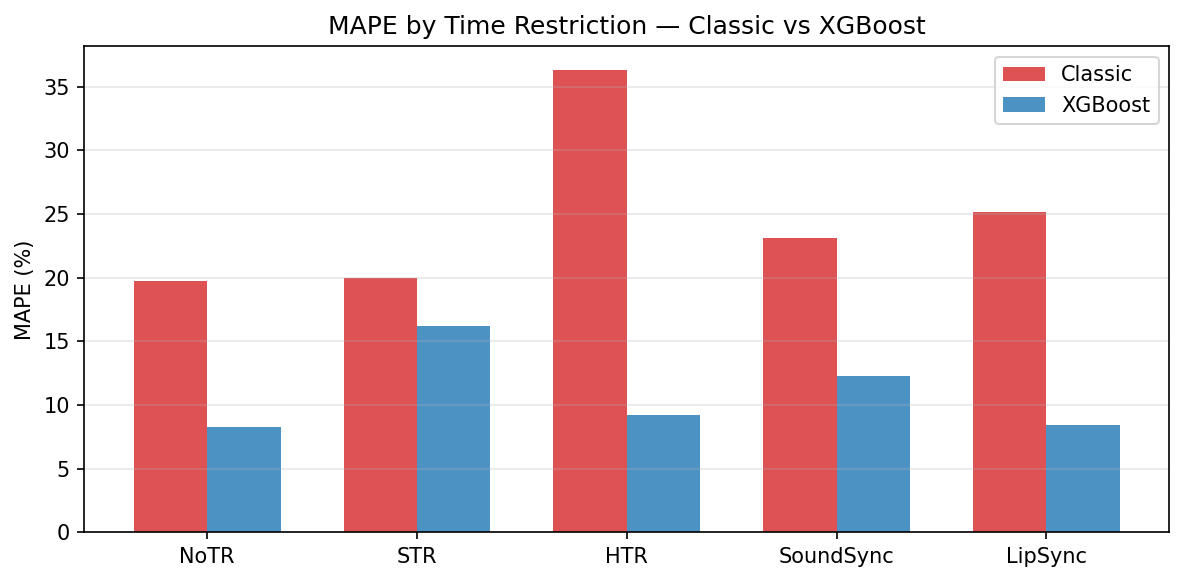
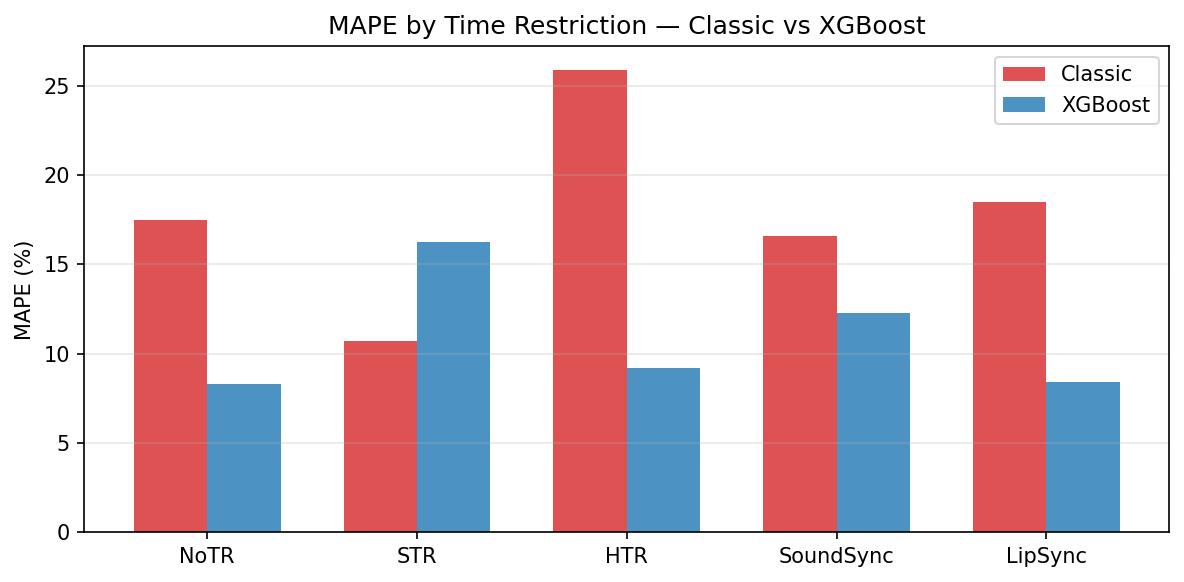
Word-based classic baseline, updated methodology narrative

diff --git a/pages/03_methodology.py b/pages/03_methodology.py
@@ -2,7 +2,7 @@
 pages/03_methodology.py — Methodology
 
 Three sections:
-1. Why filecount is a poor predictor — the business argument
+1. Why the classic method has a structural ceiling — the business argument
 2. SHAP feature importance — what the model actually learned
 3. Full training code — transparency
 """
@@ -21,23 +21,25 @@ metrics  = metadata["metrics"]
 
 st.title("🔬 Methodology")
 st.caption(
-    "How the model was built, what it learned, and why it outperforms "
-    "the traditional approach. Full training code included."
+    "How the model was built, what it learned, and where the classic "
+    "approach reaches its limits. Full training code included."
 )
 st.divider()
 
 # ─── SECTION 1: THE BUSINESS ARGUMENT ─────────────────────────────────────────
 
-st.subheader("1 — Why filecount is a poor predictor")
+st.subheader("1 — Where the classic method reaches its limits")
 
 st.markdown("""
-The traditional quoting method in VO localization multiplies **filecount × a fixed
-rate per language and time restriction**. This is auditable and fast — but it rests
-on a flawed assumption: that every file represents the same amount of recording work.
+The classic quoting method in VO localization multiplies **wordcount by a fixed
+rate per language and time restriction type**. This is a reasonable starting point —
+it accounts for script volume, language market rates, and the recording complexity
+associated with each restriction type.
 
-It does not.
+Its limitation is structural: the formula treats all sessions of the same wordcount
+and TR type as equivalent, regardless of how the scope is distributed across the cast.
 
-**Words per file varies significantly by session type:**
+**Average words per file varies by session type:**
 
 | Time Restriction | Avg. Words per File |
 |---|---|
@@ -47,19 +49,28 @@ It does not.
 | STR | ~7.0 |
 | NoTR | ~8.0 |
 
-A LipSync file and a NoTR file cost the same in the traditional model — but the NoTR
-file contains almost twice the dialogue. When studios submit large NoTR sessions with
-dense scripts, the traditional method **underestimates**. When they submit LipSync
-sessions with many short, precisely timed lines, it **overestimates**.
+This variation matters less for a word-based approach than for a file-based one,
+since wordcount is already the primary input. The classic method's main blind spot
+is elsewhere: **minimum fee dynamics**.
 
-Beyond words per file, the traditional method ignores:
+When a large number of actors each cover a small portion of the script, each actor
+triggers a minimum session fee regardless of their individual scope. The per-word
+formula has no mechanism to detect this — a session with 120 actors covering 15,000
+words produces the same estimate as one with 15 actors covering the same material,
+despite the significant difference in actual cost.
 
-- **Minimum fees** — actors charge a minimum regardless of scope. Thin per-actor
-  scopes (high spread) inflate cost relative to wordcount.
-- **Cast size relative to scope** — 80 actors covering 5,000 words is a very
-  different session to 10 actors covering the same material.
+The analysis confirms this pattern. The sessions where the classic method performs
+worst are consistently NoTR sessions with large casts and high scope spread, where
+minimum fees dominate the actual billing and the per-word rate is a poor predictor
+of the final invoice.
 
-These are not edge cases. They are systematic, predictable, and correctable.
+Beyond minimum fees, the classic method also has no visibility into:
+
+- **Words per actor** — a proxy for how thin each actor's individual scope is
+- **Scope spread** — how unevenly distributed the material is across the cast
+- **Characters per actor** — relevant where one actor covers several characters
+
+These are the factors the model was trained to capture.
 """)
 
 st.divider()
@@ -71,10 +82,10 @@ st.subheader("2 — What the model learned: SHAP feature importance")
 st.markdown("""
 SHAP (SHapley Additive exPlanations) decomposes each prediction into contributions
 from individual features — showing not just *which* features matter, but *how* and
-*in which direction* they push the predicted cost.
+*in which direction* they influence the predicted cost.
 
 **How to read the chart below:**
-- Each row is one feature, ordered by importance (most impactful at the top)
+- Each row is one feature, ordered by overall importance (most impactful at top)
 - Each dot is one session from the test set
 - **X-axis**: SHAP value — how much that feature pushed the prediction up (right) or down (left)
 - **Colour**: the feature's value for that session (red = high, blue = low)
@@ -87,28 +98,31 @@ else:
     st.warning("SHAP plot not found — run models/train.py to generate it.")
 
 st.markdown("""
-**Reading the key features:**
+**Key features and what they show:**
 
-**Wordcount** (top) — red dots (large scripts) push cost strongly upward.
-The most important raw driver, as expected.
+**Wordcount** — the primary driver, consistent with both the classic method and
+domain knowledge. Large scripts (red) push cost up significantly.
 
-**Words_per_File** (second) — this is the insight the traditional method misses.
-Red dots (dense files, many words per file) push cost *up*. Blue dots (sparse files,
-few words per file) push cost *down*. The model has learned that filecount alone
-is an unreliable workload proxy.
+**Words_per_File** — sessions with fewer words per file (blue) push cost up,
+not down. This reflects the minimum fee effect: sparse files indicate thin
+per-actor scope, which increases cost per word relative to a denser session.
+The classic method cannot capture this relationship.
 
-**TR_Score** — the time restriction ordinal. High TR (LipSync = 4) pushes cost up.
-Confirms the model correctly learned the multiplier hierarchy.
+**TR_Score** — the ordinal encoding of time restriction type. Higher TR
+(LipSync = 4) pushes cost up, confirming the model has correctly learned
+the multiplier hierarchy.
 
 **Language** — high-rate languages (Japanese, Korean) push cost up; low-rate
-(Polish, LATAM) push it down. The model recovered the language rate table from
-data alone, without being given the actual rates.
+languages (Polish, LATAM) push it down. The model recovered the language rate
+structure from data without being given the explicit rate table.
 
-**Words_per_Actor** — thin per-actor scope (low values, blue) is associated with
-minimum fee exposure, which pushes cost up. The model detected this non-linearity.
+**Words_per_Actor** — thin per-actor scope (low values, blue) is associated
+with minimum fee exposure and pushes predicted cost upward. This is the
+interaction the classic method misses most in large-cast sessions.
 
-**Spread_Score** — confirms the spread premium is being learned, though it ranks
-lower because wordcount and WPF carry most of the signal.
+**Spread_Score** — scope spread adds signal on top of words-per-actor,
+though it ranks lower because the actor-level features carry most of the
+minimum fee information.
 """)
 
 st.divider()
@@ -117,19 +131,23 @@ st.divider()
 
 st.subheader("3 — Training code")
 
-st.markdown("""
+st.markdown(f"""
 The model was trained locally and saved as `model.pkl`. This app loads the
-pre-trained model at startup — no training happens here. Below is the full
-training script for transparency.
+pre-trained model at startup — no training happens at runtime.
 
-Key decisions worth noting:
+Key decisions in the training pipeline:
+
 - **XGBoost** was chosen over linear regression because the cost function is
-  non-linear (minimum fees, TR multipliers interacting with spread)
-- **OrdinalEncoder** for language and TR — not one-hot — because these categories
-  have meaningful ordinality (TR_Score encodes cost hierarchy explicitly)
-- **20% test split** + **5-fold CV** to avoid overfitting on a modest dataset
-- **Noise was deliberately introduced** in data generation (~8% lognormal std dev)
-  so the model cannot achieve unrealistically perfect accuracy
+  non-linear: minimum fees create a floor effect, and TR multipliers interact
+  with spread in ways a linear model cannot represent cleanly.
+- **OrdinalEncoder** for language and TR rather than one-hot encoding, because
+  both have meaningful ordinality (TR_Score explicitly encodes cost hierarchy).
+- **20% test split plus 5-fold cross-validation** to guard against overfitting
+  on a dataset of roughly 1,000 training samples.
+- **Noise was deliberately introduced** during data generation (lognormal, ~8%
+  std dev) so the model cannot achieve unrealistically low error. The resulting
+  test MAPE of {metrics['mape_model_test']:.1f}% reflects genuine prediction
+  difficulty, not a clean synthetic signal.
 """)
 
 with st.expander("View full training code (train.py)", expanded=False):

diff --git a/models/train.py b/models/train.py
@@ -73,11 +73,33 @@ X_train, X_test, y_train, y_test = train_test_split(
 print(f"  Train: {len(X_train):,}  |  Test: {len(X_test):,}")
 
 # ─── CLASSIC BASELINE (on test set) ────────────────────────────────────────
+# Word-based classic: wordcount × base_rate × TR_mult × language_rate.
+# A competent per-word approach — better than file-based, but blind to
+# spread, minimum fees, and words-per-actor dynamics.
+
+BASE_WORD_RATE   = 1.30
+TR_MULT_CLASSIC  = {'NoTR': 1.0, 'STR': 2.0, 'HTR': 2.5, 'SoundSync': 3.5, 'LipSync': 4.0}
+LANGUAGE_RATES   = {
+    'Polish': 0.50, 'LATAM': 0.60, 'Brazilian Portuguese': 0.65,
+    'Chinese': 0.70, 'Spanish': 0.85, 'German': 1.00, 'French': 1.05,
+    'English': 1.10, 'Dutch': 1.15, 'Korean': 1.30, 'Japanese': 2.50,
+}
+
+# Compute classic forecast on the full past dataset BEFORE encoding,
+# then index into the test set after the split.
+df_raw_past = df_raw[df_raw[TARGET].notna()].copy()
+df_raw_past['classic'] = df_raw_past.apply(
+    lambda r: r['Wordcount']
+              * BASE_WORD_RATE
+              * TR_MULT_CLASSIC[r['Time_Restriction']]
+              * LANGUAGE_RATES[r['Language']],
+    axis=1
+)
 
 test_idx      = X_test.index
-y_classic = df.loc[test_idx, 'Cost_Forecast']
+y_classic     = df_raw_past.loc[test_idx, 'classic']
 mape_baseline = mean_absolute_percentage_error(y_test, y_classic) * 100
-print(f"\nClassic baseline MAPE: {mape_baseline:.1f}%")
+print(f"\nClassic baseline MAPE (word-based): {mape_baseline:.1f}%")
 
 # ─── MODEL TRAINING ────────────────────────────────────────────────────────────
 
@@ -117,8 +139,9 @@ mape_cv    = -cv_scores.mean() * 100
 df_test              = df.loc[test_idx].copy()
 df_test['y_pred']    = y_pred
 df_test['y_true']    = y_test.values
-df_test['mape_row']  = (abs(df_test['y_pred'] - df_test['y_true']) / df_test['y_true']) * 100
-df_test['mape_base'] = (abs(df.loc[test_idx, 'Cost_Forecast'] - df_test['y_true']) / df_test['y_true']) * 100
+df_test['y_classic'] = y_classic.values
+df_test['mape_row']  = (abs(df_test['y_pred']    - df_test['y_true']) / df_test['y_true']) * 100
+df_test['mape_base'] = (abs(df_test['y_classic'] - df_test['y_true']) / df_test['y_true']) * 100
 mape_by_tr           = df_test.groupby('Time_Restriction')[['mape_row','mape_base']].mean()
 
 print(f"\n{'─'*50}")

diff --git a/pages/02_accuracy.py b/pages/02_accuracy.py
@@ -69,7 +69,7 @@ st.caption(
 df_all  = load_data()
 df_past = df_all[df_all["Cost_Actuals"].notna()].copy()
 df_past["classic"] = df_past.apply(
-    lambda r: classic_forecast(r["Filecount"], r["Language"], r["Time_Restriction"]), axis=1
+    lambda r: classic_forecast(r["Wordcount"], r["Language"], r["Time_Restriction"]), axis=1
 )
 df_past["mape_old"] = (
     abs(df_past["classic"] - df_past["Cost_Actuals"]) / df_past["Cost_Actuals"] * 100
@@ -143,20 +143,26 @@ st.subheader("What does this mean in practice?")
 col1, col2 = st.columns(2)
 with col1:
     st.markdown(f"""
-**The traditional method** quotes by multiplying filecount by a fixed rate.
-It knows about language and time restriction, but treats every file as
-equivalent — ignoring how many words are actually in each file, how thinly
-the scope is spread across actors, and the minimum fee dynamics that follow.
+**The classic method** quotes by multiplying wordcount by a fixed per-word rate,
+adjusted for language and time restriction. This is a reasonable approach and
+accounts for the main cost drivers in straightforward sessions.
+
+Where it falls short is in sessions with large casts and uneven scope distribution.
+When many actors each record a small amount of material, minimum session fees
+dominate the actual cost — and a per-word formula has no way to reflect this.
 
 On average, it is off by **{metrics['mape_classic']:.0f}%**.
 """)
 
 with col2:
     st.markdown(f"""
-**The ML model** was trained on the same historical data and learned that
-*words per file* is the most important signal the traditional method ignores.
-A LipSync file averages ~4.5 words. A NoTR file averages ~8. Using filecount
-as a workload proxy conflates these — and the error is systematic.
+**The ML model** was trained on the same data and learned to identify the
+sessions where the classic method diverges most from actual cost — primarily
+large-cast, high-spread sessions where words-per-actor is low and minimum
+fees are the primary cost driver.
+
+The key features driving this improvement are words-per-actor and scope
+spread, both of which are invisible to a flat per-word formula.
 
 The model reduces average error to **{metrics['mape_model_test']:.0f}%** —
 a **{metrics['improvement_pp']:.0f} percentage point improvement**.

diff --git a/utils.py b/utils.py
@@ -24,15 +24,13 @@ DATA_PATH = ROOT / "data" / "vo_dataset.csv"
 SPREAD_ORDER = ['Very Low', 'Low', 'Normal', 'High', 'Very High']
 TR_ORDER     = ['NoTR', 'STR', 'HTR', 'SoundSync', 'LipSync']
 
-# Classic rates: EUR per file, per TR type.
-# Calibrated at a plausible but slightly-off words-per-file assumption —
-# this is what the "old method" does. See train.py for full explanation.
-CLASSIC_RATES = {
-    'NoTR':      1.30 * 1.0 * 7.0,
-    'STR':       1.30 * 2.0 * 6.5,
-    'HTR':       1.30 * 2.5 * 6.0,
-    'SoundSync': 1.30 * 3.5 * 5.5,
-    'LipSync':   1.30 * 4.0 * 5.5,
+# Classic method: EUR per word × TR multiplier × language rate.
+# A competent word-based approach that accounts for script volume,
+# language, and time restriction — but has no visibility into
+# spread dynamics, minimum fee exposure, or words-per-actor depth.
+BASE_WORD_RATE = 1.30
+TR_MULT = {
+    'NoTR': 1.0, 'STR': 2.0, 'HTR': 2.5, 'SoundSync': 3.5, 'LipSync': 4.0,
 }
 
 LANGUAGE_RATES = {
@@ -112,11 +110,11 @@ def encode_and_predict(df_row, model, encoder, feature_order):
 
 # ─── CLASSIC FORMULA ───────────────────────────────────────────────────────
 
-def classic_forecast(filecount, language, time_restriction):
+def classic_forecast(wordcount, language, time_restriction):
     """
-    The 'old method': filecount × rate per file.
-    TR-aware and language-aware, but blind to wordcount,
-    words-per-file variance, actor spread, and minimum fees.
+    Word-based classic method: wordcount × base rate × TR multiplier × language rate.
+    Accounts for script volume, language, and time restriction.
+    Does not account for spread, minimum fees, or words-per-actor dynamics.
     """
-    rate = CLASSIC_RATES[time_restriction] * LANGUAGE_RATES[language]
-    return round(filecount * rate, 2)
+    rate = BASE_WORD_RATE * TR_MULT[time_restriction] * LANGUAGE_RATES[language]
+    return round(wordcount * rate, 2)

diff --git a/pages/01_predictor.py b/pages/01_predictor.py
@@ -132,7 +132,7 @@ if submitted:
     df_row   = build_features(wordcount, filecount, n_actors, n_chars,
                                language, time_restriction, scope_spread)
     ml_cost  = encode_and_predict(df_row, model, encoder, metadata["features"])
-    old_cost = classic_forecast(filecount, language, time_restriction)
+    old_cost = classic_forecast(wordcount, language, time_restriction)
     gap      = ml_cost - old_cost
     gap_pct  = (gap / old_cost) * 100
 
@@ -150,7 +150,7 @@ if submitted:
     r2.metric(
         label="Traditional Forecast",
         value=f"€{old_cost:,.0f}",
-        help="Filecount × fixed rate per TR and language. Does not account for wordcount density or spread."
+        help="Wordcount × per-word rate × TR multiplier × language rate. Accounts for script volume but not spread or minimum fee dynamics."
     )
     r3.metric(
         label="Difference",
@@ -186,7 +186,7 @@ if submitted:
                 f"The main reason: this session has only **{wpf:.1f} words per file**, "
                 f"but the traditional rate was calibrated assuming ~7 wpf. "
                 f"Fewer words per file means more files to produce the same content — "
-                f"and the traditional method mistakes filecount for workload."
+                f"The classic method captures script volume correctly but cannot account for minimum fee exposure at this actor count."
             )
         if scope_spread in ("High", "Very High"):
             msg += (
